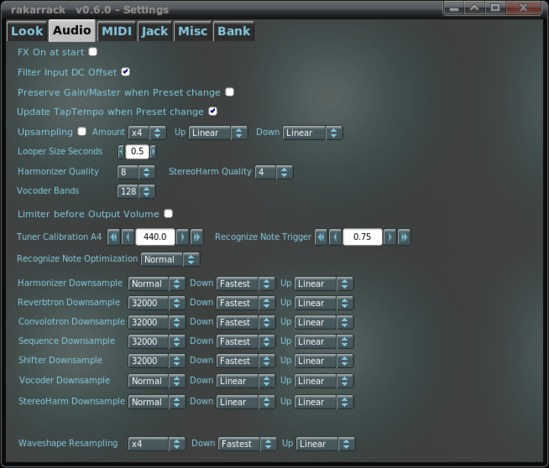
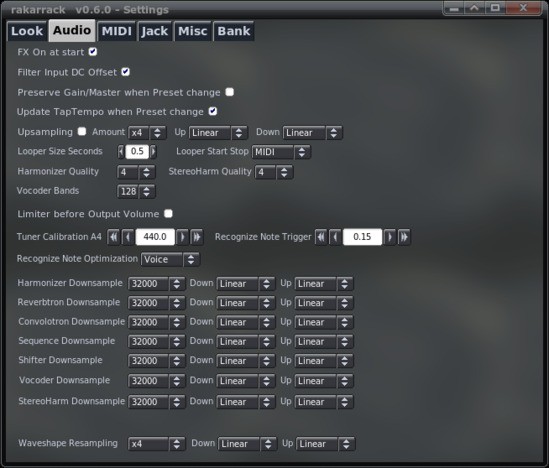
Update
modified:   ChangeLog
	modified:   doc/help/general.html
	modified:   doc/help/imagenes/settings.jpg
	modified:   doc/help/imagenes/settings1.jpg

diff --git a/doc/help/general.html b/doc/help/general.html
@@ -585,6 +585,10 @@ allocated when Rakarrack starts, so you will need to restart Rakarrack for
 this to take effect.  If you don't plan to use the Looper, then make this a
 small number so Rakarrack doesn't hog memory you aren't going to use.</p>
 
+<p><b>Looper Start Stop</b></p>
+<p>Here you can synchronize the Looper Start Stop with Jack Transport, MIDI
+or by default internally.</p>
+
 <p><b>Harmonizer Quality and StereoHarm Quality</b></p>
 <p>Selects the quality of the harmonizer audio
 engine, used by Harmonizer, Shifter and Sequence effects, the available
